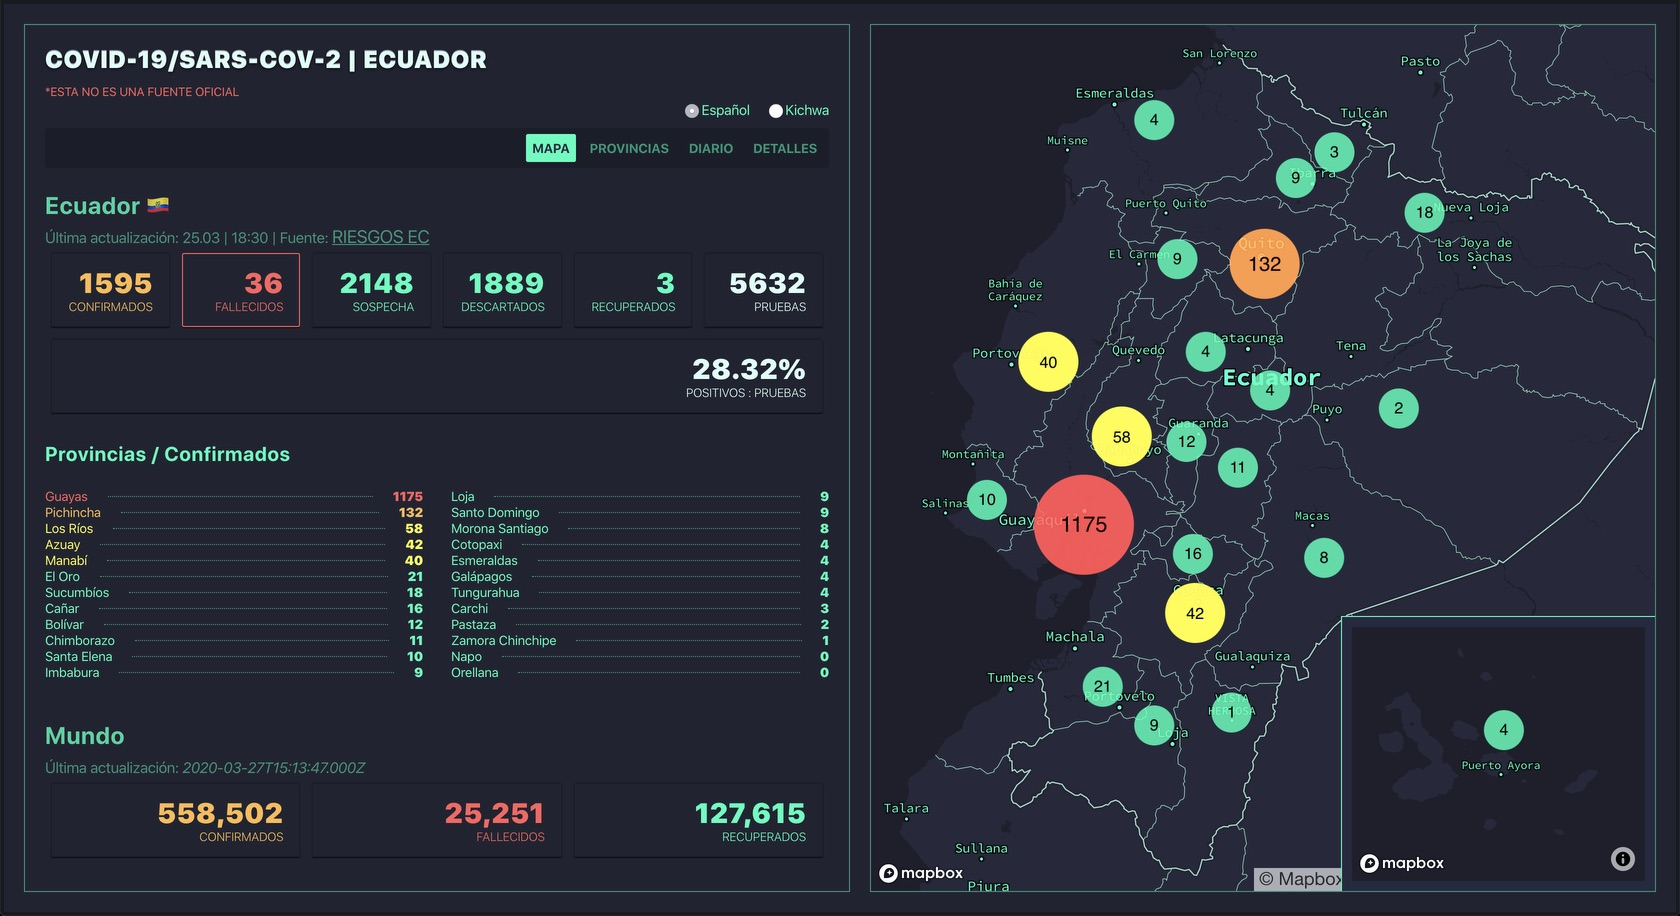
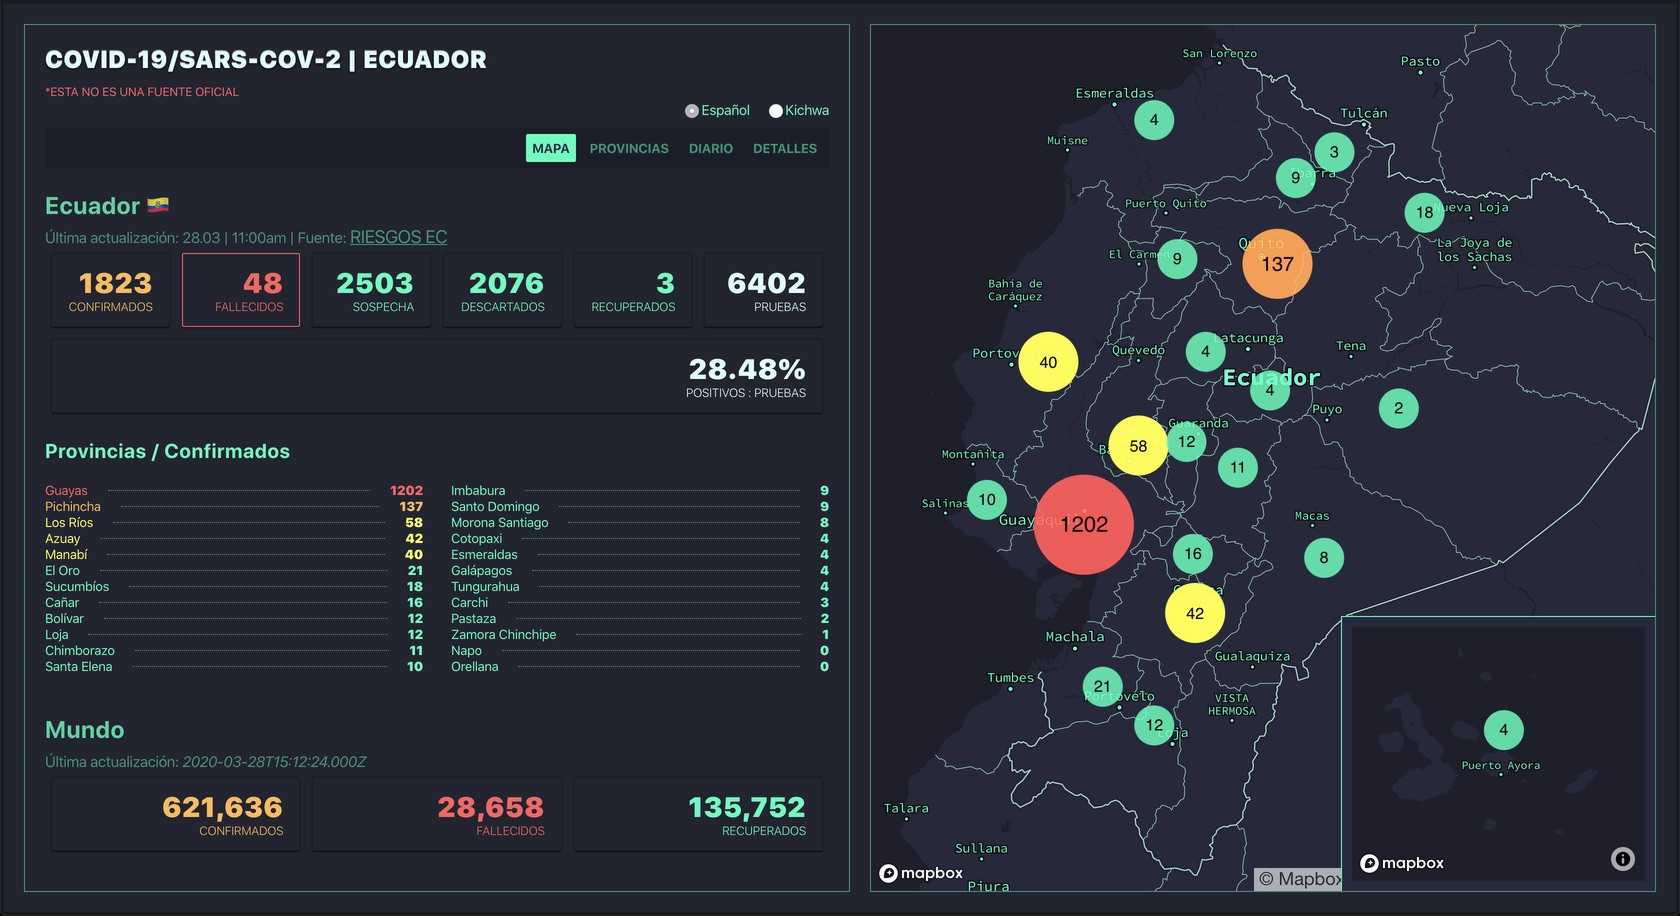
Add new data

diff --git a/src/components/Ecuador.js b/src/components/Ecuador.js
@@ -19,12 +19,12 @@ const Ecuador = ({ t }) => {
   });
 
   const dataTotals = {
-    confirmed: 1627,
-    deaths: 41,
-    suspicious: 2347,
-    negatives: 1941,
+    confirmed: 1823,
+    deaths: 48,
+    suspicious: 2503,
+    negatives: 2076,
     recoveries: 3,
-    tests: 5915
+    tests: 6402
   };
 
   var result = (dataTotals.confirmed / dataTotals.tests) * 100;
@@ -33,7 +33,7 @@ const Ecuador = ({ t }) => {
     <>
       <p>
         <small>
-          {t('updateDate.label')} 27.03 | 17:30 | {t('source.label')}{' '}
+          {t('updateDate.label')} 28.03 | 11:00am | {t('source.label')}{' '}
           <a
             target="_blank"
             rel="noopener noreferrer"

diff --git a/src/components/Charts.js b/src/components/Charts.js
@@ -58,7 +58,8 @@ const dailyConfirmed = [
   101,
   91,
   171,
-  224
+  224,
+  196
 ];
 
 const sum = dailyConfirmed.reduce((a, b) => a + b);
@@ -92,7 +93,8 @@ let dailyTotal = [
   1132,
   1223,
   1394,
-  1618
+  1618,
+  1814
 ];
 
 const confirmed = {
@@ -221,7 +223,7 @@ export function DetailsChart() {
     ],
     datasets: [
       {
-        data: [3, 1376, 113, 94, 41],
+        data: [3, 1565, 113, 94, 48],
         borderColor: 'hsla(164, 23%, 3%, 0.6)',
         backgroundColor: [
           'hsla(163, 72%, 100%, 0.9)',
